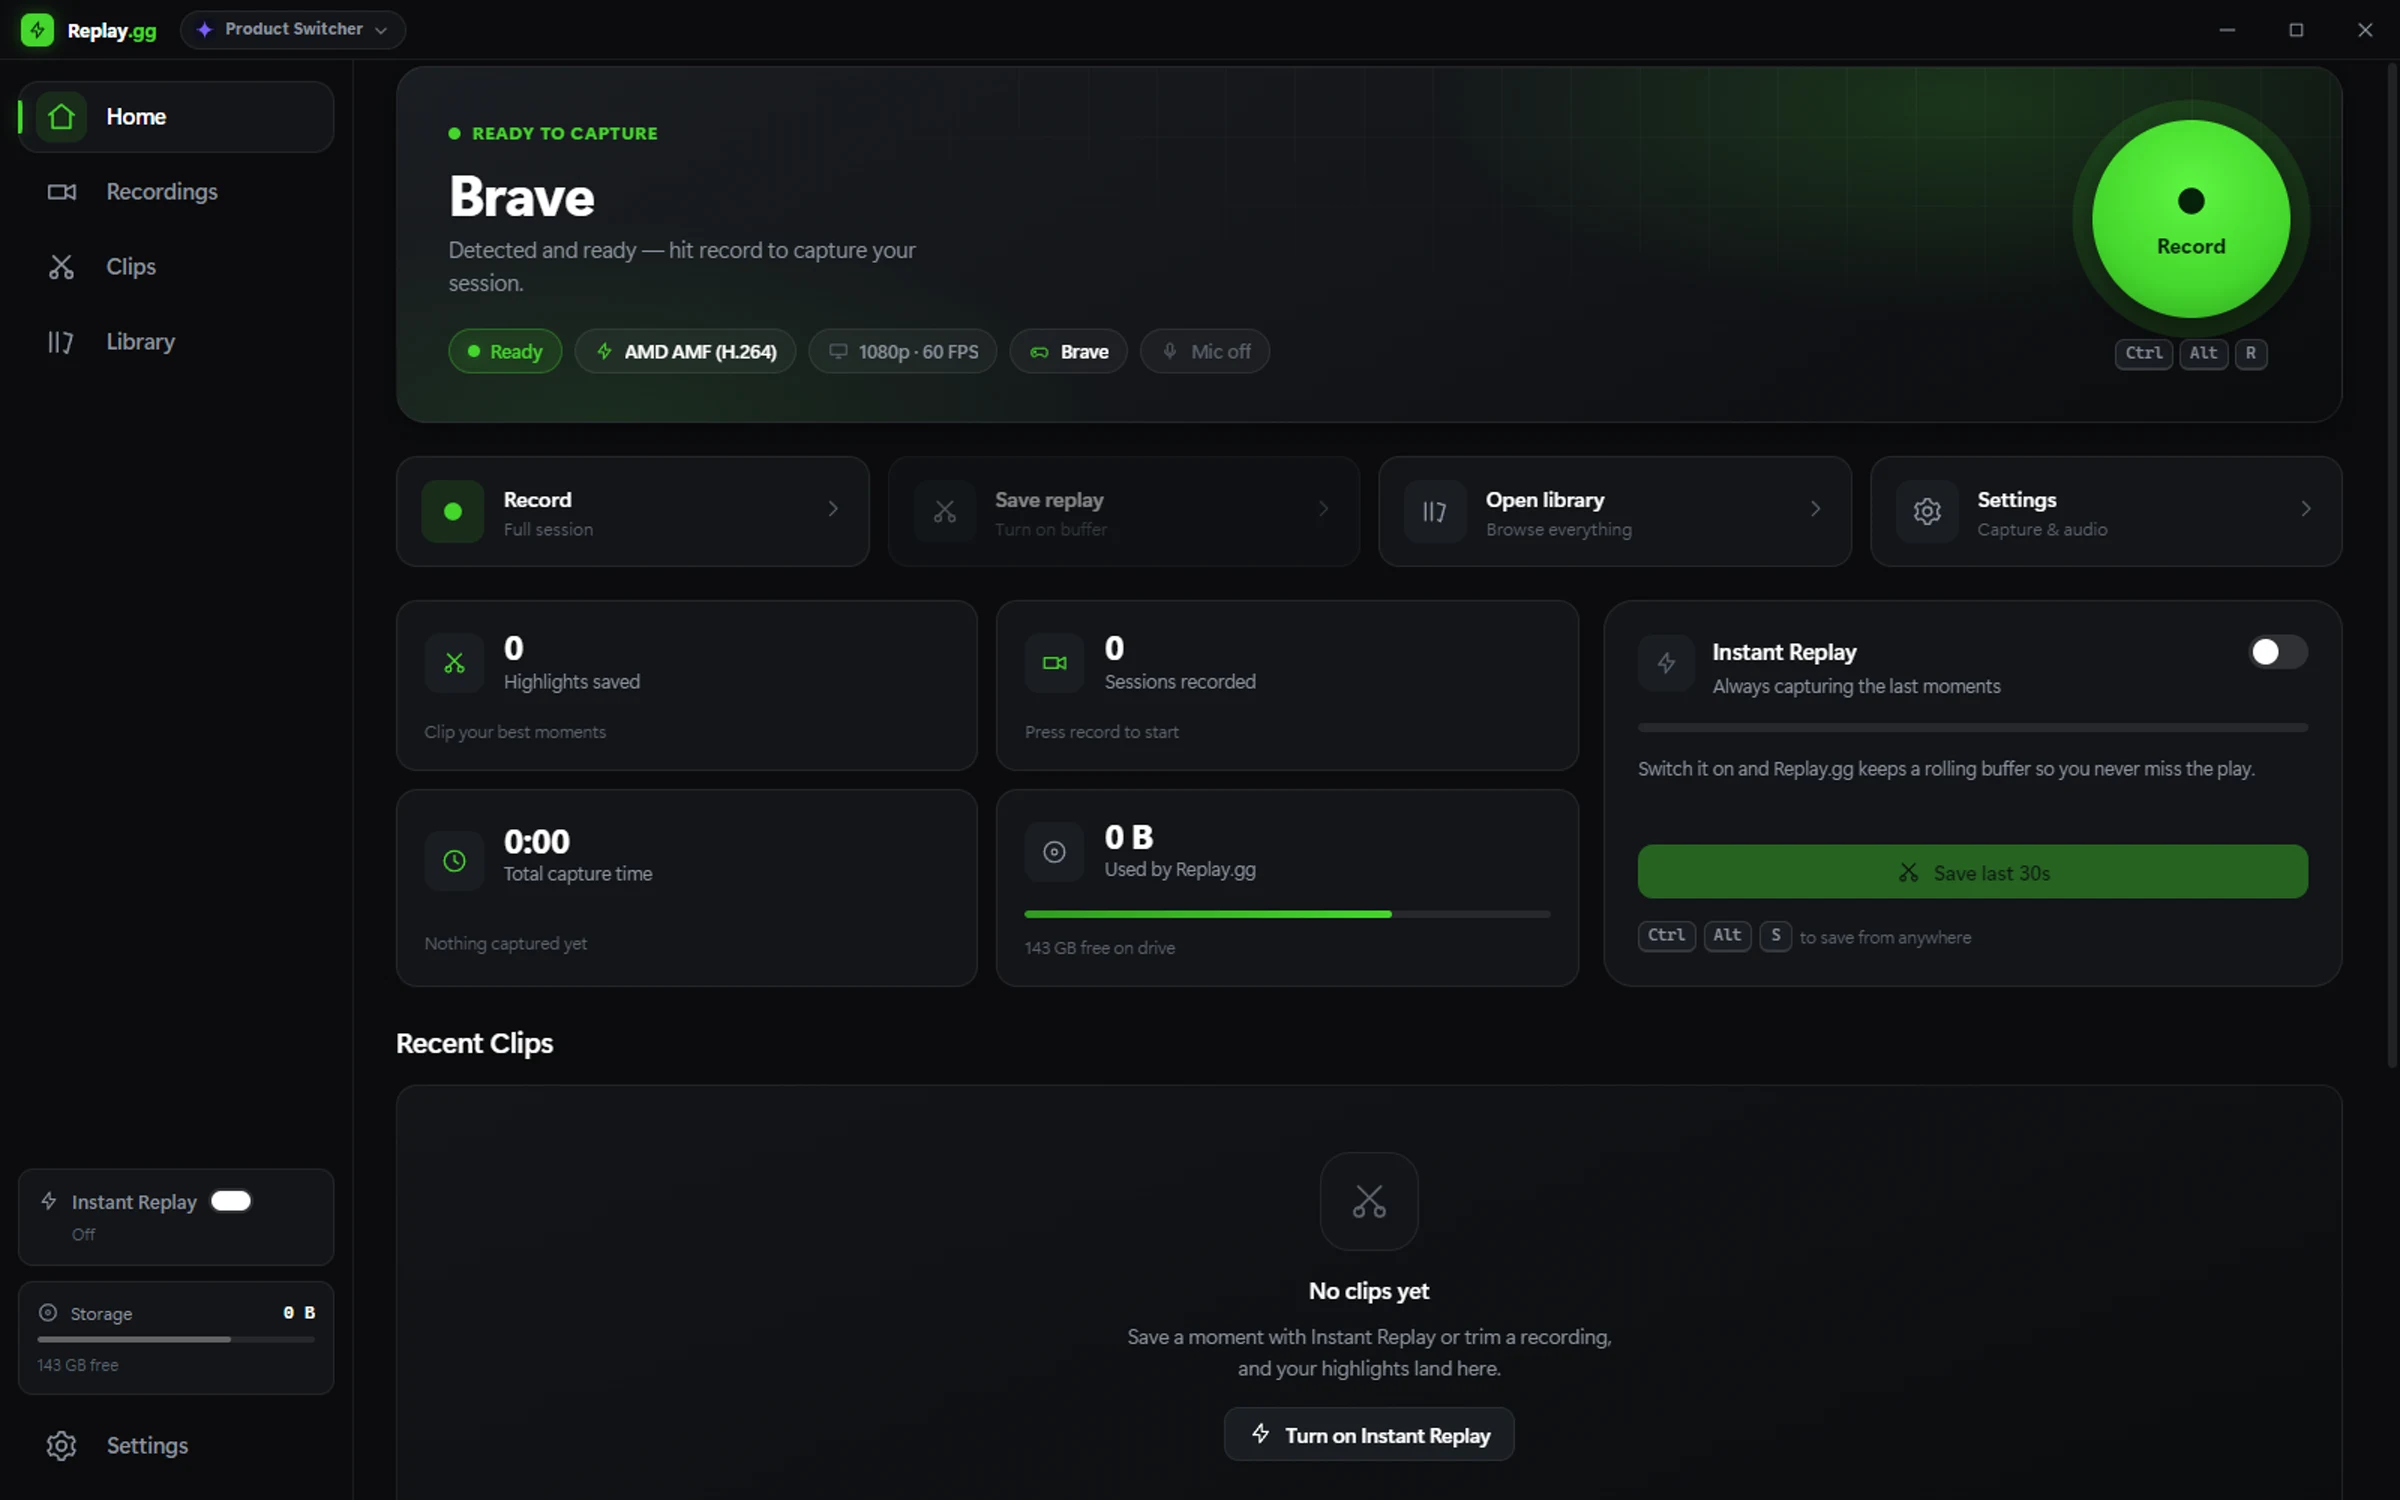
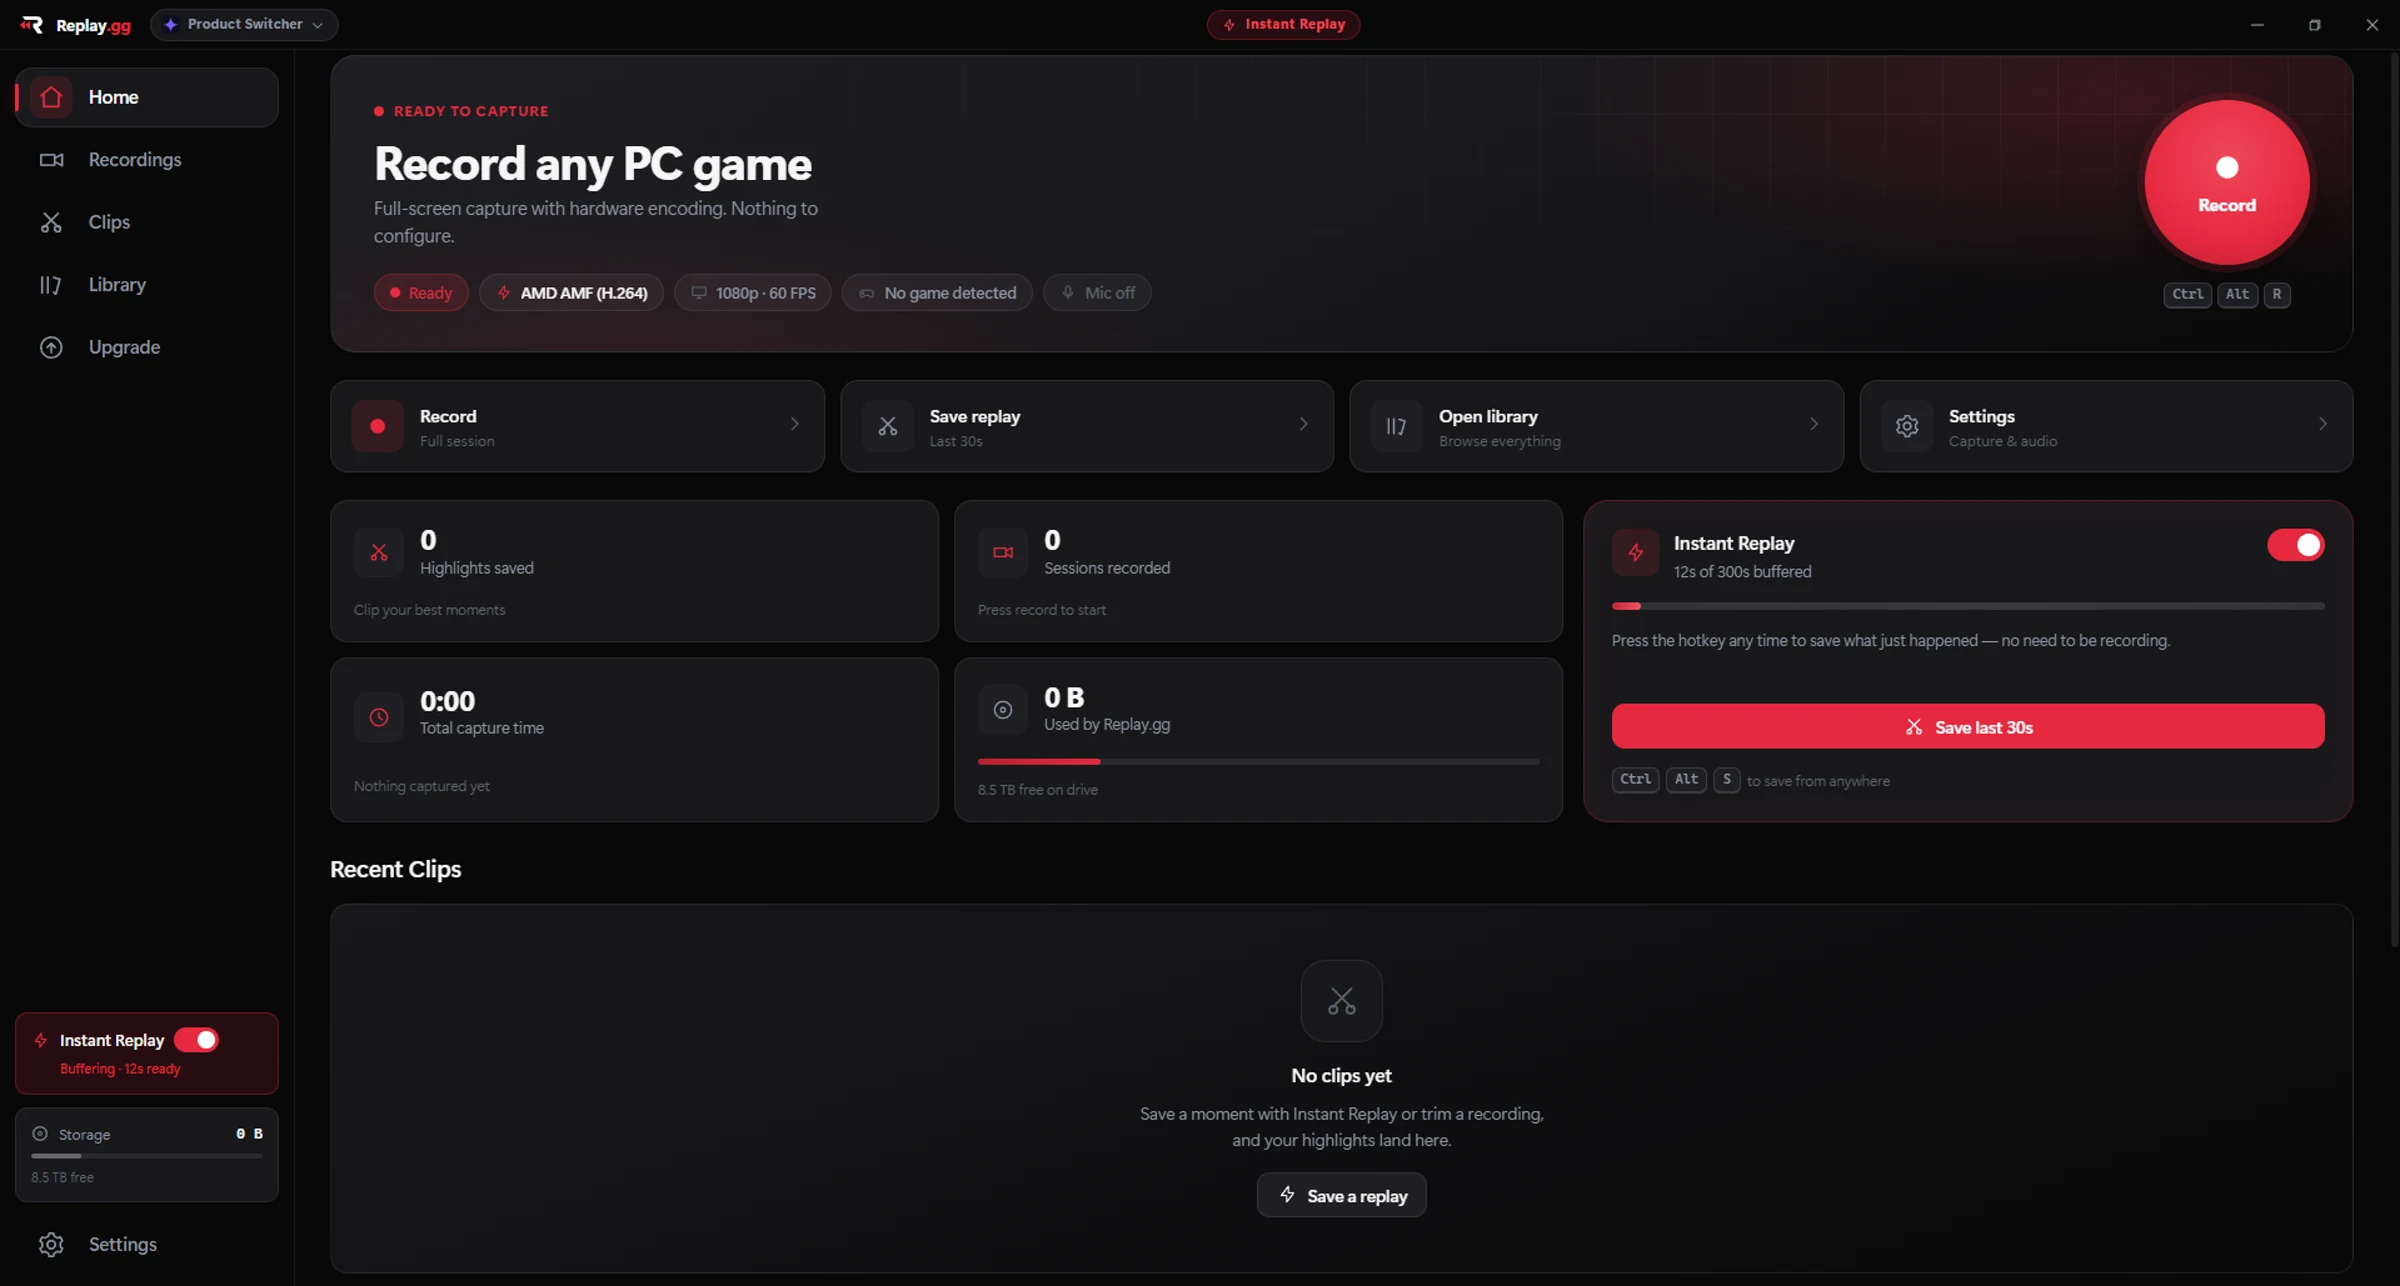
Use a real, current screenshot of Replay.GG's home screen
The old shot showed a stale green theme; the app is red now (matches the brand mark swapped in the previous commit). Screenshot supplied by Brandon, converted to webp.

diff --git a/ecosystem.html b/ecosystem.html
@@ -229,7 +229,7 @@
 
       <div class="entry-body">
         <figure class="plate plate--shot">
-          <img src="assets/shots/replay-gg-home.webp" width="2400" height="1500"
+          <img src="assets/shots/replay-gg-home.webp" width="2400" height="1286"
                alt="Replay.GG home: ready to capture, with record, instant replay and clip shortcuts."
                loading="lazy" decoding="async" />
         </figure>
